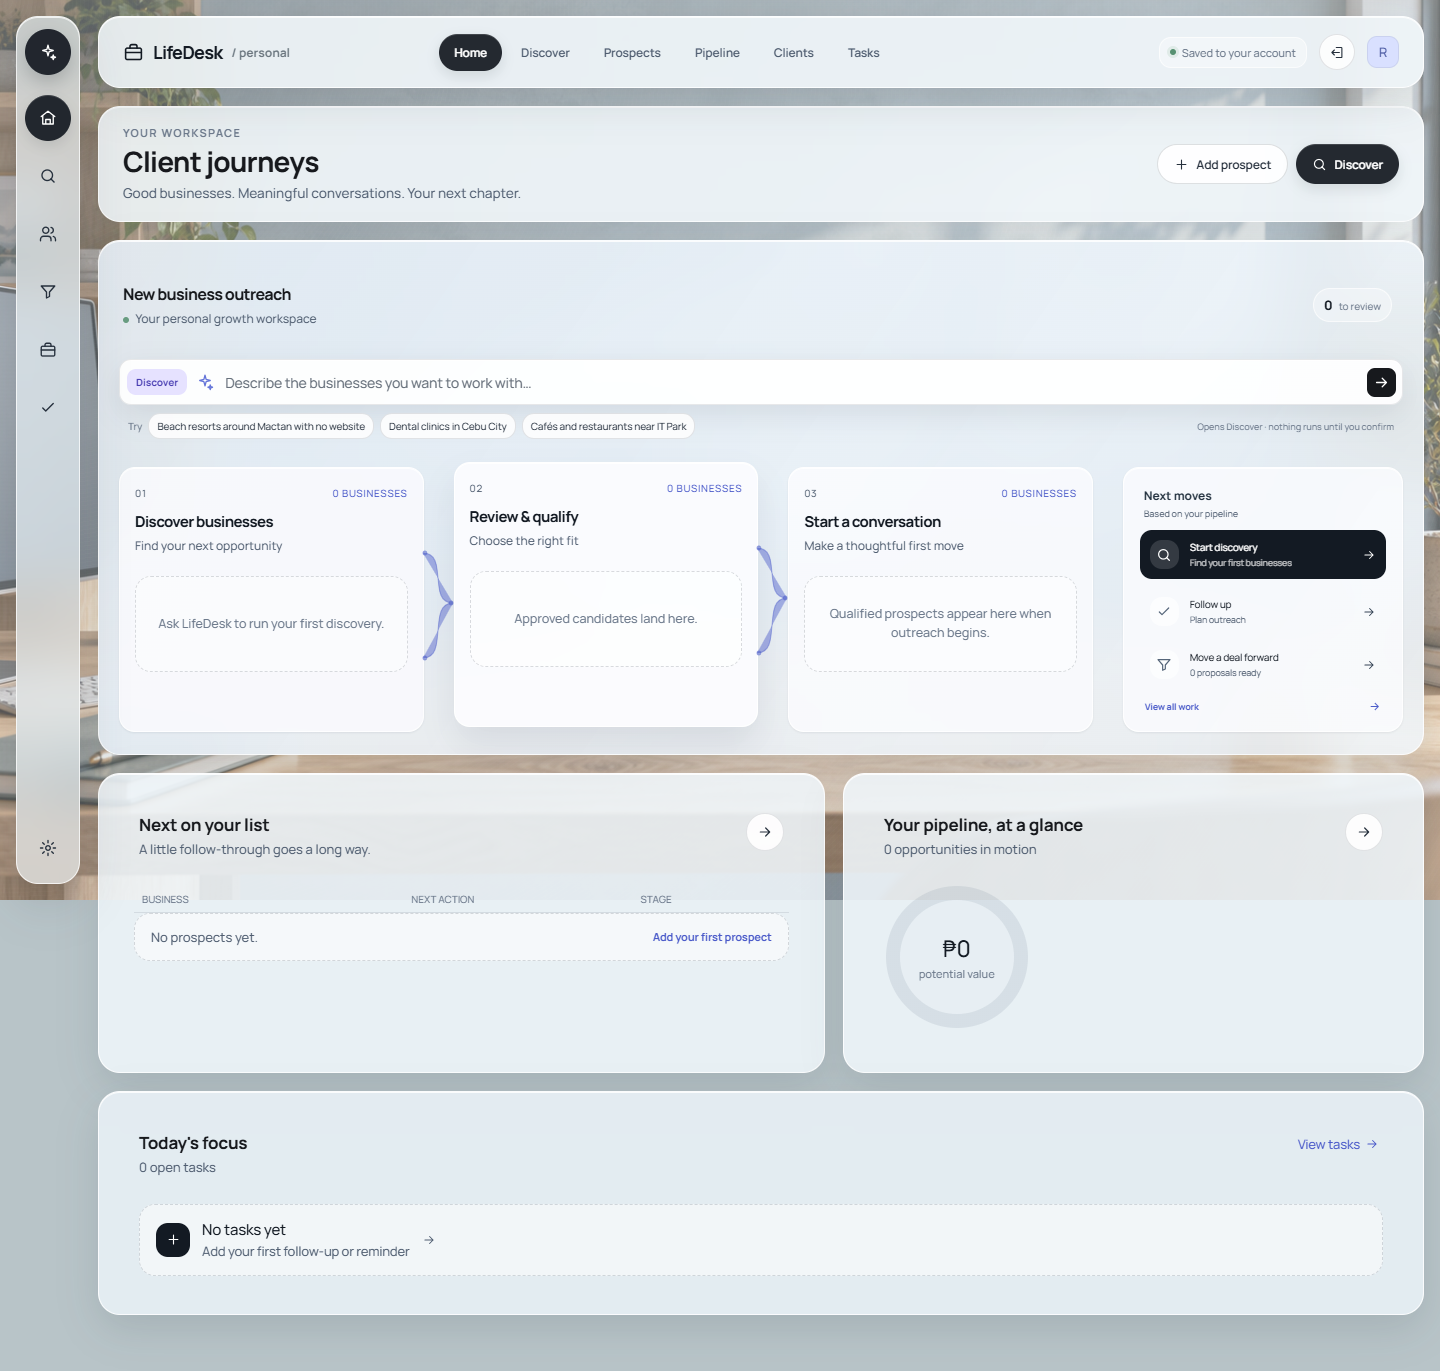
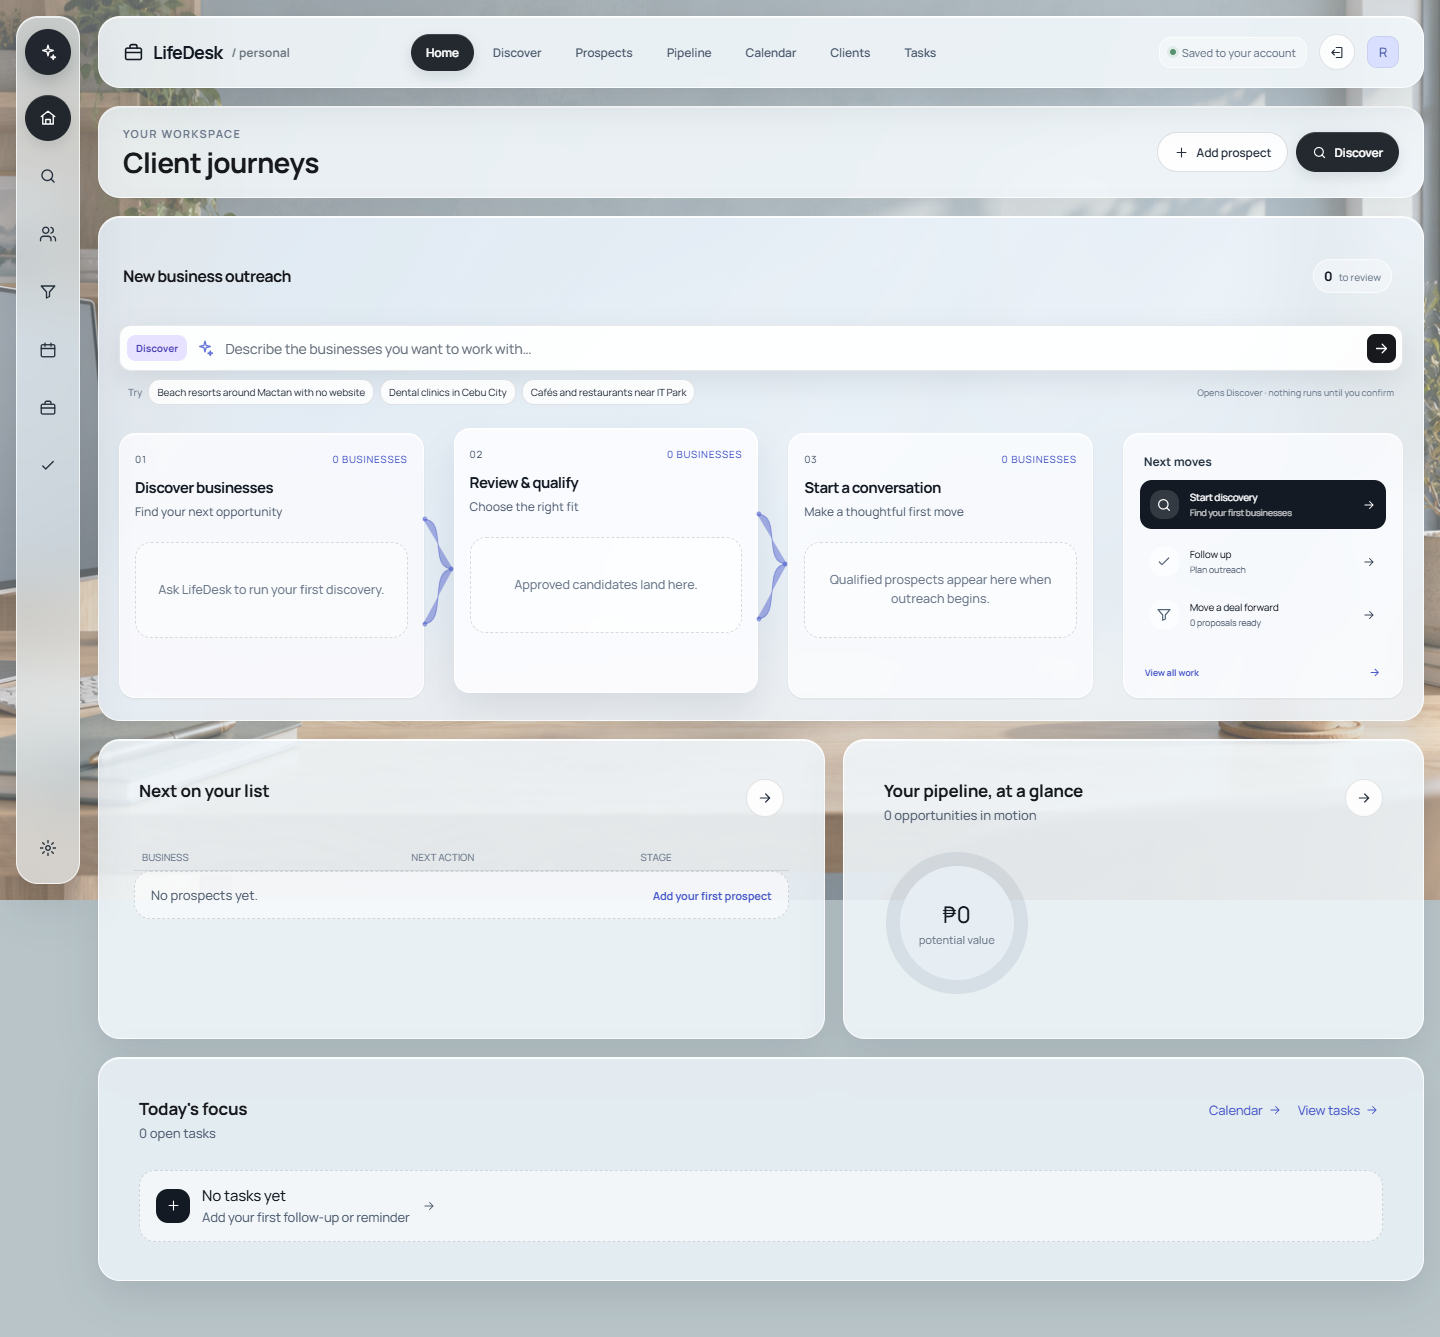
QWeqwe

diff --git a/app/globals.css b/app/globals.css
@@ -198,7 +198,6 @@ button, a { -webkit-tap-highlight-color: transparent; }
 .project-info h3 { font-size: 15px; line-height: 1.25; margin: 0 0 8px; font-weight: 560; }
 .project-info p { font-size: 12px; line-height: 1.58; color: #555; margin: 0; }
 .project-image { position: relative; overflow: hidden; }
-.project-image__note { position: absolute; right: 10px; bottom: 10px; padding: 5px 7px; border-radius: 3px; background: rgba(17, 17, 17, .84); color: #fff; font: 9px/1 monospace; text-transform: uppercase; }
 .visual { height: 100%; transition: transform 260ms ease; }
 .project-card:hover .visual { transform: scale(1.035); }
 .project-footer { grid-column: 1 / -1; display: flex; align-items: center; justify-content: space-between; padding: 0 12px; border-top: 1px solid #e5e5e5; background: rgba(250,250,250,.96); z-index: 4; }
@@ -246,6 +245,13 @@ button, a { -webkit-tap-highlight-color: transparent; }
 .case-study__hero--captioned { height: auto; aspect-ratio: auto; background: var(--surface-soft); }
 .case-study__hero--captioned img { height: auto; aspect-ratio: 1200 / 640; object-fit: contain; }
 .case-study__hero--screenshot img { object-fit: cover; object-position: center top; }
+.case-study__hero--mobile-screens { background: #eef1f5; }
+.case-study__mobile-shots { display: grid; grid-template-columns: repeat(3, minmax(0, 1fr)); gap: 16px; padding: 24px; }
+.case-study__hero--mobile-screens .case-study__mobile-shots img { display: block; width: 100%; height: auto; aspect-ratio: 430 / 930; object-fit: contain; border: 1px solid #dce1e8; border-radius: 14px; box-shadow: 0 18px 36px -28px rgba(17, 24, 39, .45); }
+@media (max-width: 640px) {
+  .case-study__mobile-shots { display: flex; gap: 12px; overflow-x: auto; padding: 16px; scroll-snap-type: x mandatory; }
+  .case-study__hero--mobile-screens .case-study__mobile-shots img { flex: 0 0 75%; width: 75%; scroll-snap-align: center; }
+}
 .case-study__hero--captioned figcaption { padding: 10px 16px; border-top: 1px solid var(--page-border); color: var(--muted-text); font: 10px/1.4 monospace; }
 .case-study__hero--mobile { display: grid; place-items: start center; height: min(680px, 72vw); aspect-ratio: auto; padding-top: 28px; background: radial-gradient(circle at 50% 55%, #fff5ed 0 24%, #f5e7df 70%); }
 .case-study__hero--mobile img { width: auto; height: 112%; object-fit: contain; filter: drop-shadow(0 24px 24px rgba(74,42,27,.18)); }
@@ -282,6 +288,8 @@ button, a { -webkit-tap-highlight-color: transparent; }
 .visual--dashboard img { object-fit: cover; object-position: left center; }
 .visual--website { position: relative; background: var(--surface-soft); overflow: hidden; }
 .visual--website img { object-fit: cover; }
+.visual--lifedesk { display: grid; place-items: start center; overflow: hidden; padding-top: 10px; background: #eef1f5; }
+.visual--lifedesk img { width: auto; max-width: none; height: 120%; border: 1px solid #dce1e8; border-radius: 10px; box-shadow: 0 10px 26px -16px rgba(17, 24, 39, .4); }
 
 .stack-section { display: grid; grid-template-columns: 130px 1fr; gap: 20px; padding-top: 30px; padding-bottom: 28px; }
 .stack-grid { display: grid; grid-template-columns: repeat(5, 1fr); }

diff --git a/components/PrivateProjectCaseStudy.tsx b/components/PrivateProjectCaseStudy.tsx
@@ -16,7 +16,8 @@ export type PrivateProjectDetails = {
   image: string;
   imageAlt: string;
   imageNote: string;
-  imageFit?: "contain" | "cover";
+  imageFit?: "contain" | "cover" | "mobile";
+  additionalImages?: readonly { src: string; alt: string }[];
   overview: readonly string[];
   features: readonly string[];
   architecture: readonly { label: string; value: string }[];
@@ -25,6 +26,7 @@ export type PrivateProjectDetails = {
 
 export function PrivateProjectCaseStudy({ project }: { project: PrivateProjectDetails }) {
   const sectionId = project.href.split("/").at(-1);
+  const screenshots = [{ src: project.image, alt: project.imageAlt }, ...(project.additionalImages ?? [])];
 
   return (
     <>
@@ -49,15 +51,23 @@ export function PrivateProjectCaseStudy({ project }: { project: PrivateProjectDe
           </dl>
         </header>
 
-        <figure className={`case-study__hero case-study__hero--captioned${project.imageFit === "cover" ? " case-study__hero--screenshot" : ""}`}>
-          <Image
-            src={project.image}
-            alt={project.imageAlt}
-            width={1200}
-            height={640}
-            sizes="(max-width: 948px) calc(100vw - 48px), 900px"
-            priority
-          />
+        <figure className={`case-study__hero case-study__hero--captioned${project.imageFit === "cover" ? " case-study__hero--screenshot" : ""}${project.imageFit === "mobile" ? " case-study__hero--mobile-screens" : ""}`}>
+          {project.imageFit === "mobile" ? (
+            <div className="case-study__mobile-shots">
+              {screenshots.map(({ src, alt }, index) => (
+                <Image key={src} src={src} alt={alt} width={430} height={930} sizes="(max-width: 640px) 72vw, 280px" priority={index === 0} />
+              ))}
+            </div>
+          ) : (
+            <Image
+              src={project.image}
+              alt={project.imageAlt}
+              width={1200}
+              height={640}
+              sizes="(max-width: 948px) calc(100vw - 48px), 900px"
+              priority
+            />
+          )}
           <figcaption>{project.imageNote}</figcaption>
         </figure>
 

diff --git a/components/ProjectVisual.tsx b/components/ProjectVisual.tsx
@@ -33,6 +33,20 @@ function DashboardVisual() {
   );
 }
 
+function LifeDeskVisual() {
+  return (
+    <div className="visual visual--lifedesk">
+      <Image
+        src="/images/projects/lifedesk-home.png"
+        alt="LifeDesk home screen with an empty local wallet and pinned actions"
+        width={430}
+        height={930}
+        sizes="(max-width: 767px) 42vw, 180px"
+      />
+    </div>
+  );
+}
+
 function WebsiteVisual({ src, alt, position = "center" }: { src: string; alt: string; position?: string }) {
   return (
     <div className="visual visual--website">
@@ -50,9 +64,9 @@ function WebsiteVisual({ src, alt, position = "center" }: { src: string; alt: st
 export function ProjectVisual({ variant }: ProjectVisualProps) {
   if (variant === "dashboard") return <DashboardVisual />;
   if (variant === "localaid") return <LocalAidVisual />;
-  if (variant === "ccr") return <WebsiteVisual src="/images/projects/ccr.svg" alt="Illustration of the CCR order-to-payment workflow" />;
+  if (variant === "ccr") return <WebsiteVisual src="/images/projects/ccr.png" alt="CCR local demo dashboard with empty business records" />;
   if (variant === "lifedesk-crm") return <WebsiteVisual src="/images/projects/lifedesk-crm.png" alt="LifeDesk CRM empty-state workspace, with no prospect records" position="center top" />;
-  if (variant === "lifedesk") return <WebsiteVisual src="/images/projects/lifedesk.svg" alt="Illustration of LifeDesk's task, money, and AI assistance areas" />;
+  if (variant === "lifedesk") return <LifeDeskVisual />;
   if (variant === "streetkings") {
     return <WebsiteVisual src="/images/projects/street.png" alt="StreetKings PH automotive website home page" />;
   }

diff --git a/app/projects/lifedesk/page.tsx b/app/projects/lifedesk/page.tsx
@@ -9,9 +9,14 @@ const project: PrivateProjectDetails = {
   role: "Mobile product development",
   platform: "Personal Android application",
   coreStack: "React Native · Expo · SQLite",
-  image: "/images/projects/lifedesk.svg",
-  imageAlt: "Illustration of LifeDesk's tasks, money, investments, and AI assistant; no personal records are shown",
-  imageNote: "Illustrative feature overview, not an app screenshot. Personal records are private.",
+  image: "/images/projects/lifedesk-home.png",
+  imageAlt: "Actual LifeDesk home screen in an empty local web session",
+  imageNote: "Actual LifeDesk home, wallet, and tasks screens captured from the web build with empty local records.",
+  imageFit: "mobile",
+  additionalImages: [
+    { src: "/images/projects/lifedesk-wallet.png", alt: "LifeDesk wallet screen with no transactions or investment positions" },
+    { src: "/images/projects/lifedesk-tasks.png", alt: "LifeDesk tasks screen with no saved tasks" },
+  ],
   overview: [
     "LifeDesk is my local-first personal command center for staying on top of what I need to do and where my money stands.",
     "It brings tasks, reminders, projects, income, expenses, bills, budgets, and recorded investment positions into one app. Investment values are estimates with a source and timestamp, rather than brokerage account balances.",

diff --git a/app/projects/ccr/page.tsx b/app/projects/ccr/page.tsx
@@ -9,9 +9,9 @@ const project: PrivateProjectDetails = {
   role: "Full-stack product development",
   platform: "Private web application",
   coreStack: "Vue 3 · Supabase · AI assistant",
-  image: "/images/projects/ccr.svg",
-  imageAlt: "Illustration of CCR's order, delivery, billing, and payment workflow; no business records are shown",
-  imageNote: "Illustrative workflow, not a screenshot. Business records are private.",
+  image: "/images/projects/ccr.png",
+  imageAlt: "CCR's actual dashboard running with a fresh local database and no business records",
+  imageNote: "Actual CCR dashboard, captured in local demo mode with an empty database. No business records are shown.",
   overview: [
     "CCR brings daily business operations into one connected workflow so an order can be followed through fulfillment and collection.",
     "It links purchase orders to partial deliveries and delivery receipts, then to statements of account and payments. The system also covers expenses, trips, payroll advances, delivery issues, and financial summaries.",

diff --git a/components/ProjectCard.tsx b/components/ProjectCard.tsx
@@ -17,12 +17,7 @@ export function ProjectCard({ project }: { project: Project }) {
         <h3>{project.title}</h3>
         <p>{project.description}</p>
       </div>
-      <div className="project-image">
-        <ProjectVisual variant={project.visual} />
-        {(project.visual === "ccr" || project.visual === "lifedesk") && (
-          <span className="project-image__note">Illustration</span>
-        )}
-      </div>
+      <div className="project-image"><ProjectVisual variant={project.visual} /></div>
       <div className="project-footer">
         <div>{project.technologies.map((technology) => <span key={technology}>{technology}</span>)}</div>
         <ArrowRight size={20} aria-hidden="true" />

diff --git a/app/projects/lifedesk-crm/page.tsx b/app/projects/lifedesk-crm/page.tsx
@@ -11,7 +11,7 @@ const project: PrivateProjectDetails = {
   coreStack: "React · Supabase · Gemini",
   image: "/images/projects/lifedesk-crm.png",
   imageAlt: "LifeDesk CRM empty-state home page with example searches and no prospect records",
-  imageNote: "Actual empty-state screenshot. No prospect or contact records are shown.",
+  imageNote: "Current app screenshot from its empty-state development preview. No prospect or contact records are shown.",
   imageFit: "cover",
   overview: [
     "LifeDesk CRM helps me find businesses in a chosen area, assess whether they fit my services, and prepare useful context for a personal sales conversation.",
